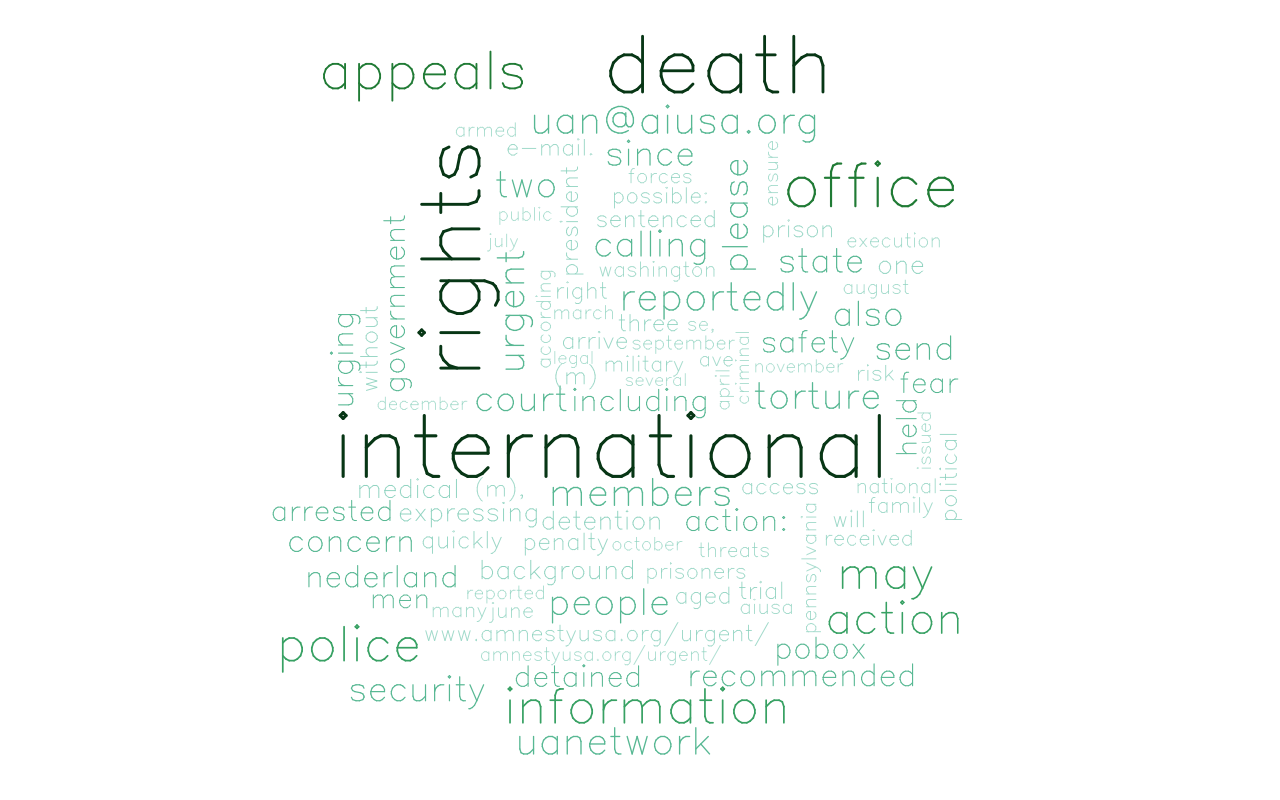
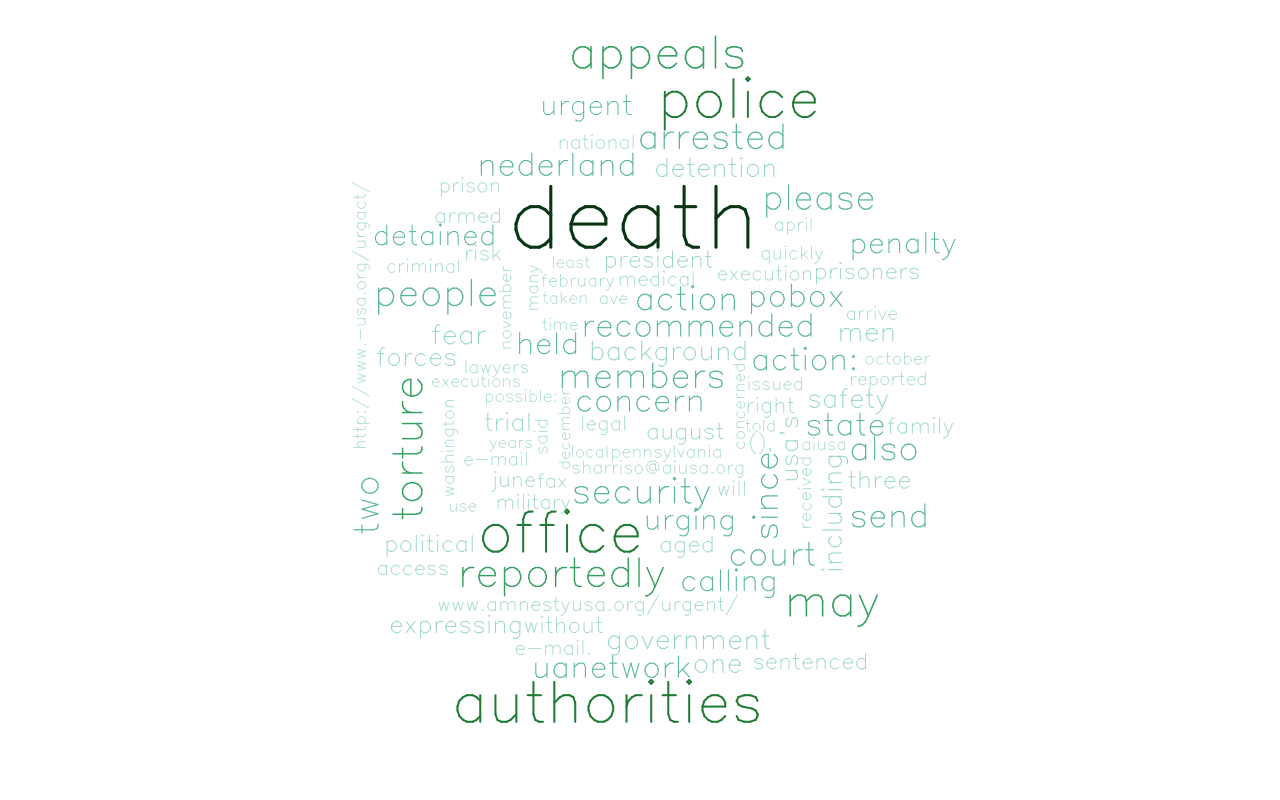
category analysis

Changed region(s): [[0.2188, 0.0312, 0.75, 0.9375], [0.25, 0.0625, 0.4062, 0.125]]

diff --git a/README.md b/README.md
@@ -1,1 +1,12 @@
-Testing linear/logistic regression models with regularization (lasso) for predicting Urgent Action follow-up
+# Amnesty International, Urgent Action (aiua) analyses
+## Testing linear/logistic regression models with regularization (lasso) for predicting Urgent Action *follow-up*
+---
+### aiua_categories.R: 
+- Summarizes urgent action *category* incidence with wordcloud and category incidence
+- i.e. shows overall frequencies of categories
+
+### aiua_logreg_fu_lasso.R
+- Given a category e.g. legal concern
+-- Builds Corpus + DocumentTermMatrix for all UAs of given category
+-- Runs logistic regression with 10-fold cross-validation to choose lambda (alpha=1 -> lasso) 
+--- test
